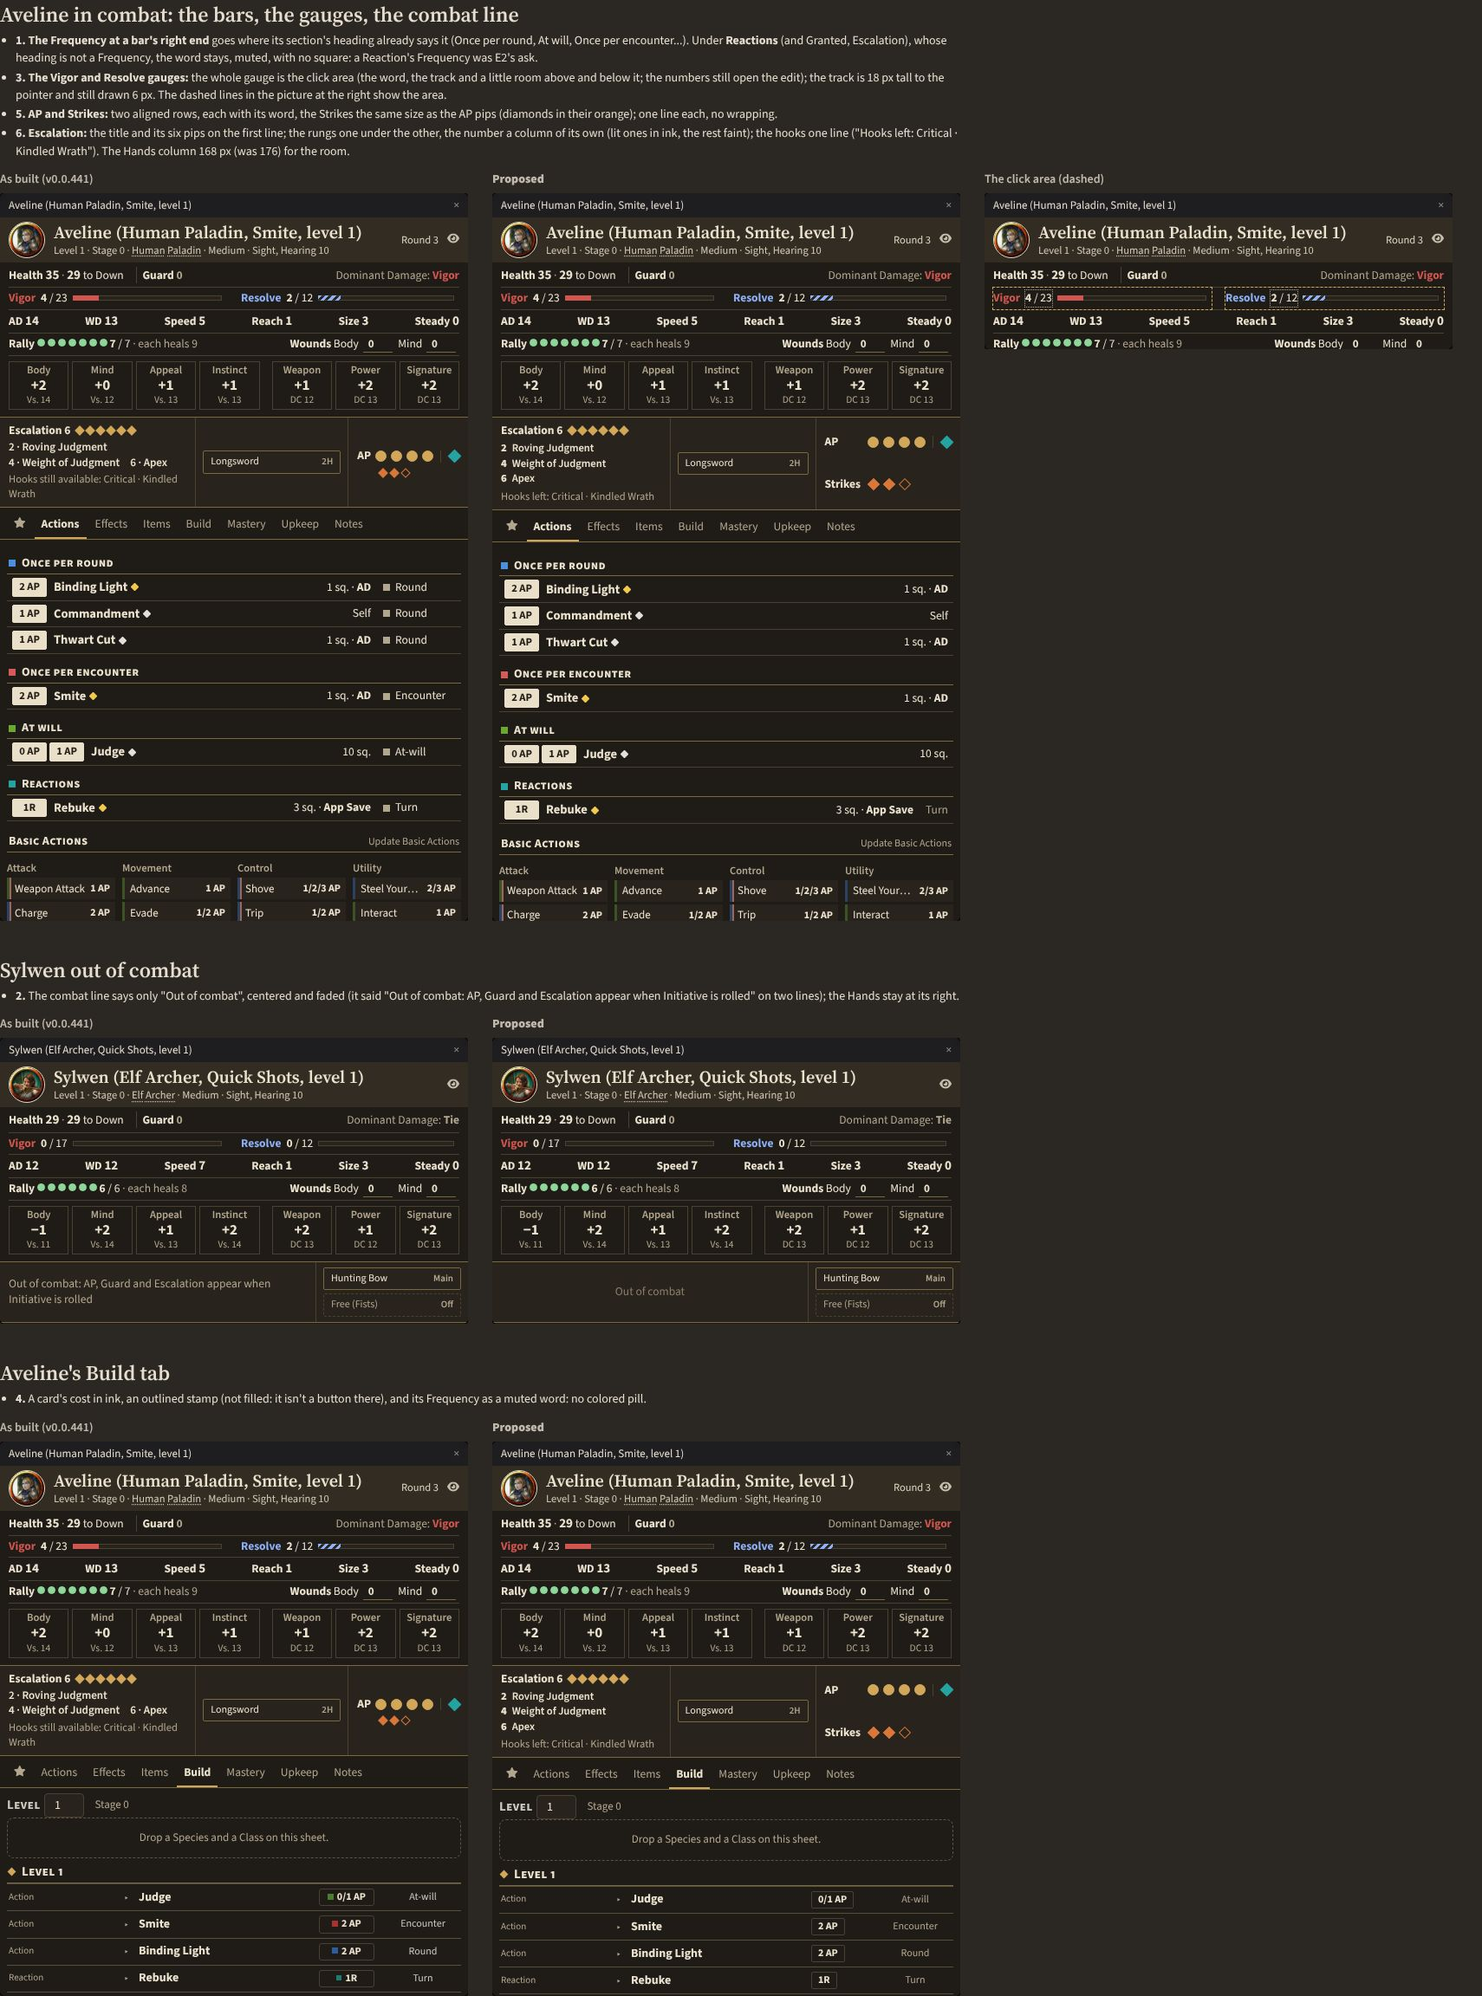
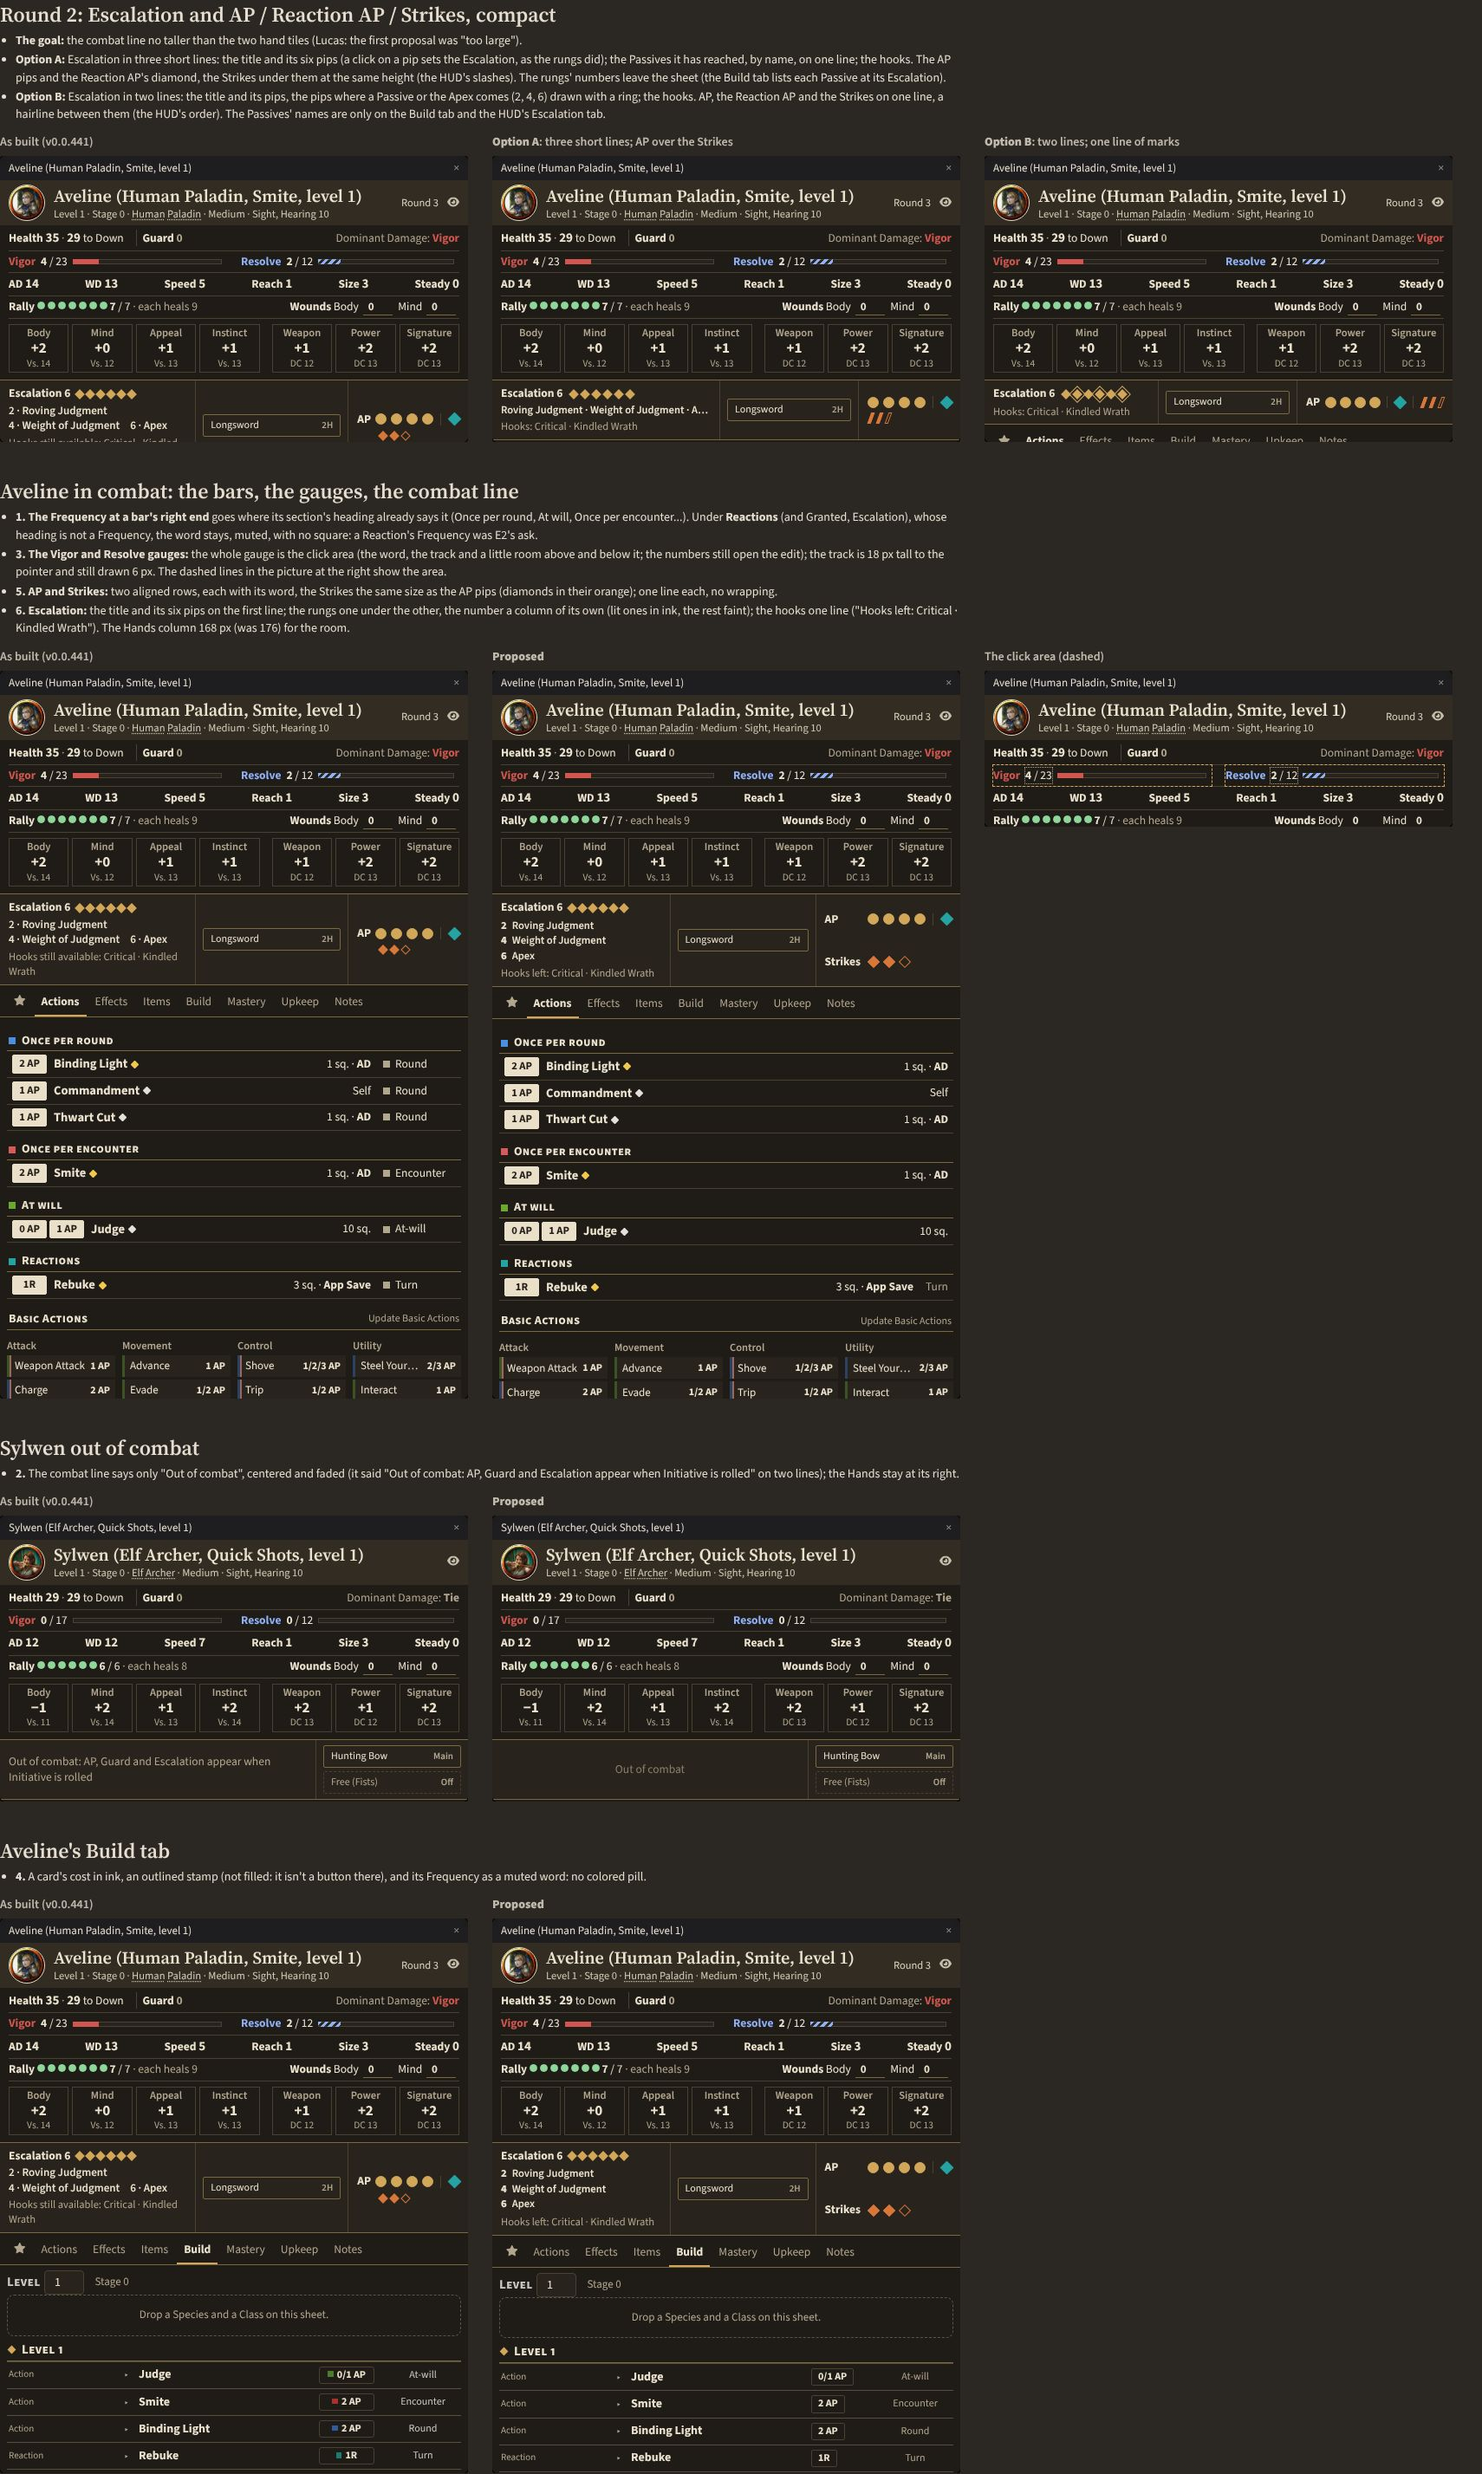
Mockup: the combat line compact, options A and B (Lucas: too large)
Claude-Session: https://claude.ai/code/session_0153o4CgPzGXNWFbB3JUtc8q

diff --git a/foundry/mockups/sheets/fixes.css b/foundry/mockups/sheets/fixes.css
@@ -29,3 +29,21 @@
 .fx-new .twod12.sheet.pcs.ps2 .ps2-rungs .rung.lit span { font-weight: 600; color: var(--s-ink); }
 .fx-new .twod12.sheet.pcs.ps2 .ps2-esc > .ps2-q { white-space: nowrap; overflow: hidden; text-overflow: ellipsis; margin-top: 2px; }
 .fx-new .twod12.sheet.pcs.ps2 .ps2-combat { grid-template-columns: minmax(0, 1fr) 168px auto; }
+
+/* ---- round 2 of fixes 5 and 6: compact (Option A, Option B) */
+.fx-new .twod12.sheet.pcs.ps2 .ps2-esc .fx-l1 { display: flex; align-items: center; gap: 8px; }
+.fx-new .twod12.sheet.pcs.ps2 .fx-ep { display: inline-flex; gap: 3px; align-items: center; }
+.fx-new .twod12.sheet.pcs.ps2 .fx-ep a { width: 8px; height: 8px; transform: rotate(45deg); border: 1.5px solid var(--s-gold); box-sizing: border-box; margin: 0 1px; cursor: pointer; }
+.fx-new .twod12.sheet.pcs.ps2 .fx-ep a.on { background: var(--s-gold); }
+.fx-new .twod12.sheet.pcs.ps2 .fx-ep a.rg { outline: 1px solid var(--s-gold); outline-offset: 2px; }
+.fx-new .twod12.sheet.pcs.ps2 .fx-lit { font-size: 12.5px; font-weight: 600; white-space: nowrap; overflow: hidden; text-overflow: ellipsis; }
+.fx-new .twod12.sheet.pcs.ps2 .ps2-esc .ps2-q { font-size: 12.5px; white-space: nowrap; overflow: hidden; text-overflow: ellipsis; }
+.fx-new .twod12.sheet.pcs.ps2 .ps2-ap.fx-apa, .fx-new .twod12.sheet.pcs.ps2 .ps2-ap.fx-apb { display: flex; flex-direction: column; align-items: flex-start; justify-content: center; gap: 5px; white-space: nowrap; }
+/* the Strikes as the HUD draws them: slashes, the AP pips' height */
+.fx-new .twod12.sheet.pcs.ps2 .fx-apa .ps2-strk, .fx-new .twod12.sheet.pcs.ps2 .fx-apb .ps2-strk { display: inline-flex; gap: 4px; padding: 0; }
+.fx-new .twod12.sheet.pcs.ps2 .fx-apa .ps2-strk i, .fx-new .twod12.sheet.pcs.ps2 .fx-apb .ps2-strk i { width: 4px; height: 13px; transform: skewX(-20deg); border: 1.5px solid rgb(217, 119, 58); box-sizing: border-box; margin: 0 1px; }
+.fx-new .twod12.sheet.pcs.ps2 .fx-apa .ps2-strk i.on, .fx-new .twod12.sheet.pcs.ps2 .fx-apb .ps2-strk i.on { background: rgb(217, 119, 58); }
+.fx-new .twod12.sheet.pcs.ps2 .fx-apa .ps2-strk { padding-left: 1px; }
+.fx-new .twod12.sheet.pcs.ps2 .fx-apb .fx-row { display: inline-flex; align-items: center; gap: 6px; } .fx-new .twod12.sheet.pcs.ps2 .fx-apb .ps2-pips { gap: 4px; }
+.fx-new .twod12.sheet.pcs.ps2 .fx-sep { display: inline-block; width: 1px; height: 14px; background: var(--s-hair); }
+.fx-new .twod12.sheet.pcs.ps2 .ps2-combat:has(.fx-apa), .fx-new .twod12.sheet.pcs.ps2 .ps2-combat:has(.fx-apb) { grid-template-columns: minmax(0, 1fr) 160px auto; }

diff --git a/foundry/mockups/sheets/README.md b/foundry/mockups/sheets/README.md
@@ -148,3 +148,9 @@ Sylwen out of combat, Aveline's Build tab.
 4. The Build tab: the cost an outlined stamp in ink, the Frequency a muted word (no colored pill).
 5. AP and Strikes: two aligned rows with their words, the Strikes the AP pips' size, no wrapping.
 6. Escalation: the title and its pips; the rungs one under the other (the number a column); the hooks one line ("Hooks left: ...").
+
+**Round 2 of 5 and 6 (Lucas: "Didnt like the Escalation and AP/R/Strike section, it is too large. Others are fine"):** at the top of the page,
+the build beside two compact options (`fixes-compact-dark.jpg`, `fixes-compact-light.jpg`), the combat line no taller than the two hand tiles.
+**A:** Escalation in three short lines (the title and six clickable pips; the Passives reached, by name, on one line; the hooks); the AP pips and
+the Reaction AP over the Strikes as the HUD's slashes. **B:** Escalation in two lines (the pips where a Passive or the Apex comes ringed; the
+hooks); AP, the Reaction AP and the Strikes on one line. In both the rungs' numbers leave the sheet (the Build tab lists each Passive).
